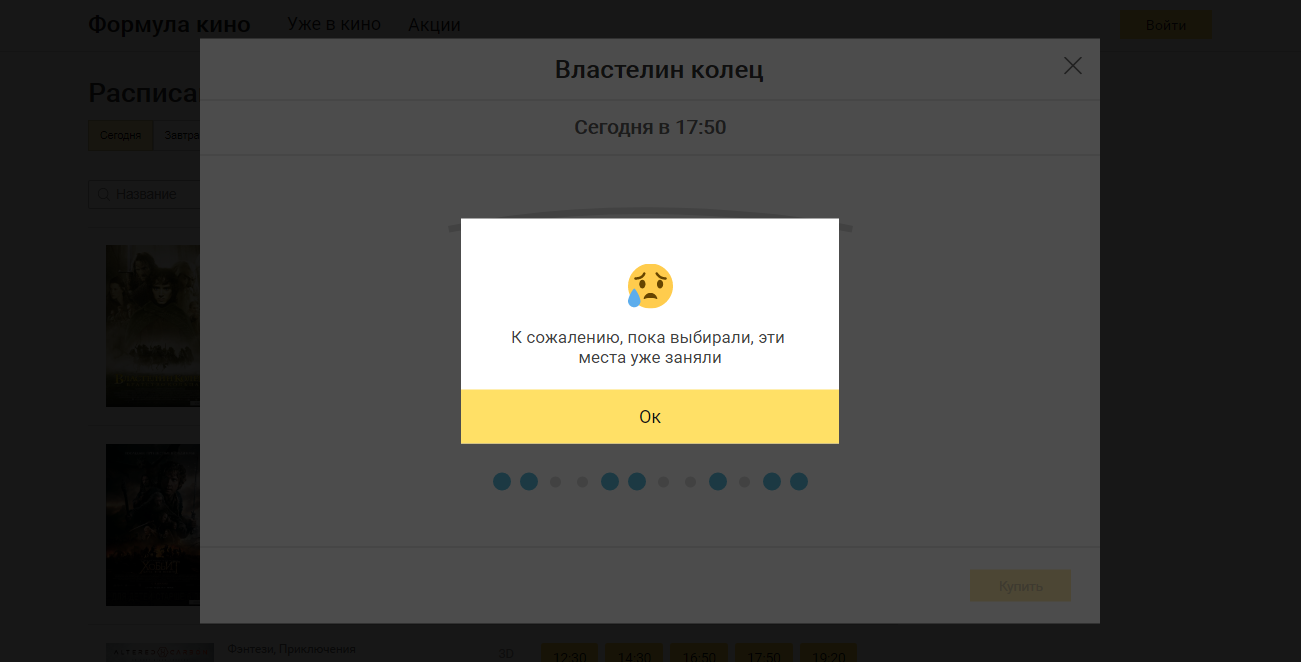
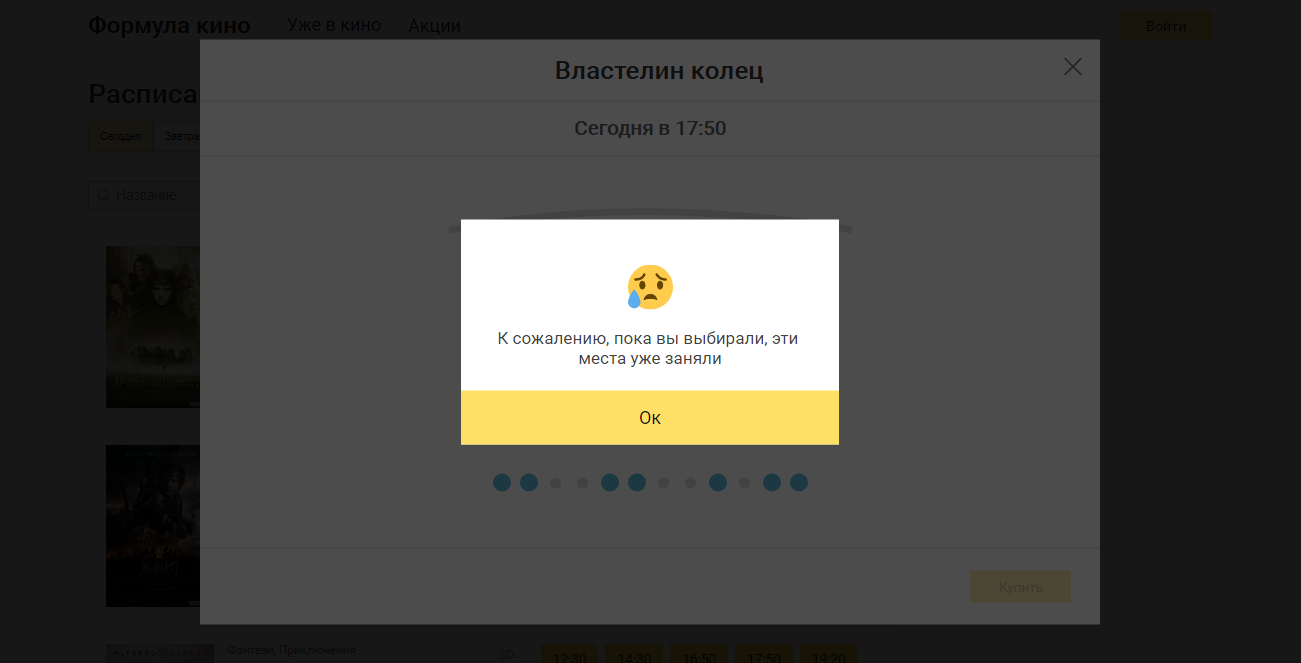
Small fix

diff --git a/src/components/app-components/seanceTickets/ReservationFailureModal/ReservationFailureModal.js b/src/components/app-components/seanceTickets/ReservationFailureModal/ReservationFailureModal.js
@@ -7,7 +7,7 @@ import { StatusModal } from '../../common/StatusModal';
 function ReservationFailureModal() {
   return (
     <StatusModal
-      statusMsg='К сожалению, пока выбирали, эти места уже заняли'
+      statusMsg='К сожалению, пока вы выбирали, эти места уже заняли'
       icon={sadnessIcon}
       closeButtonLabel='Ок'
     />
